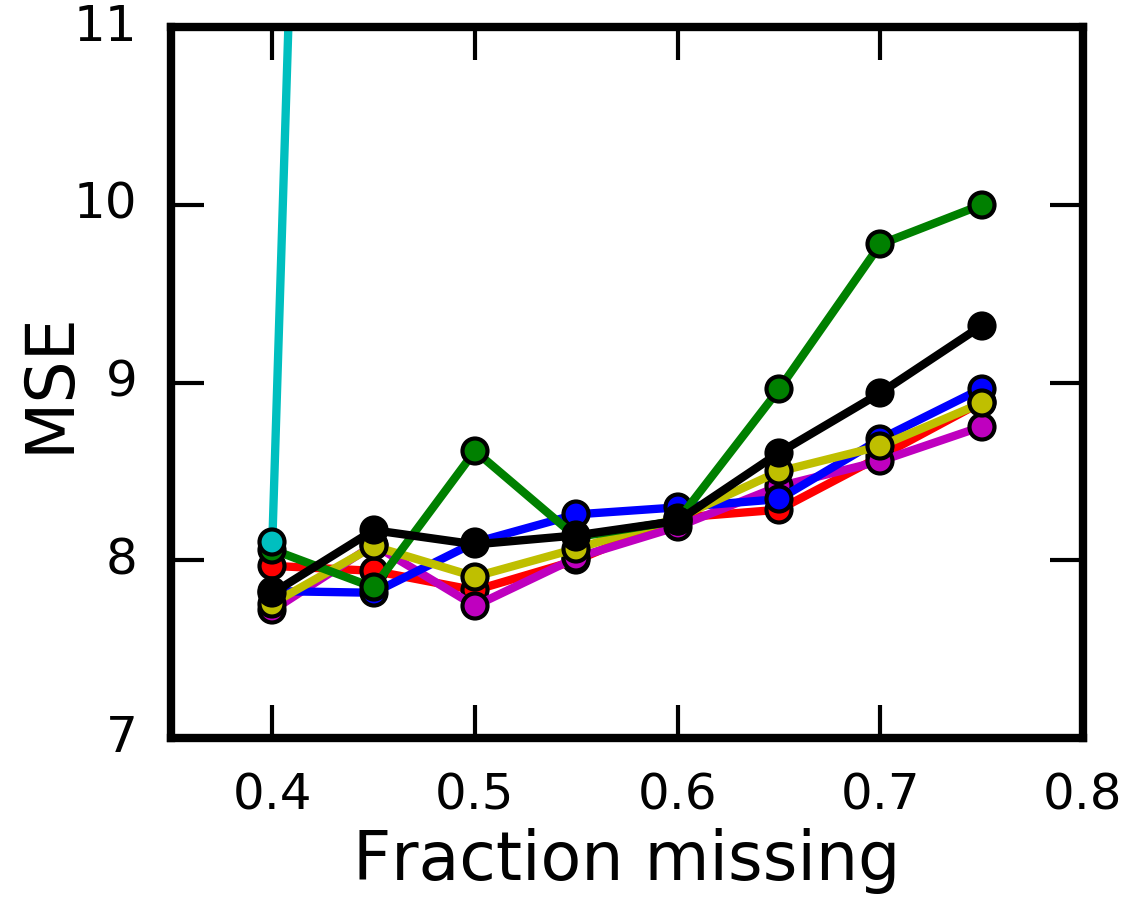
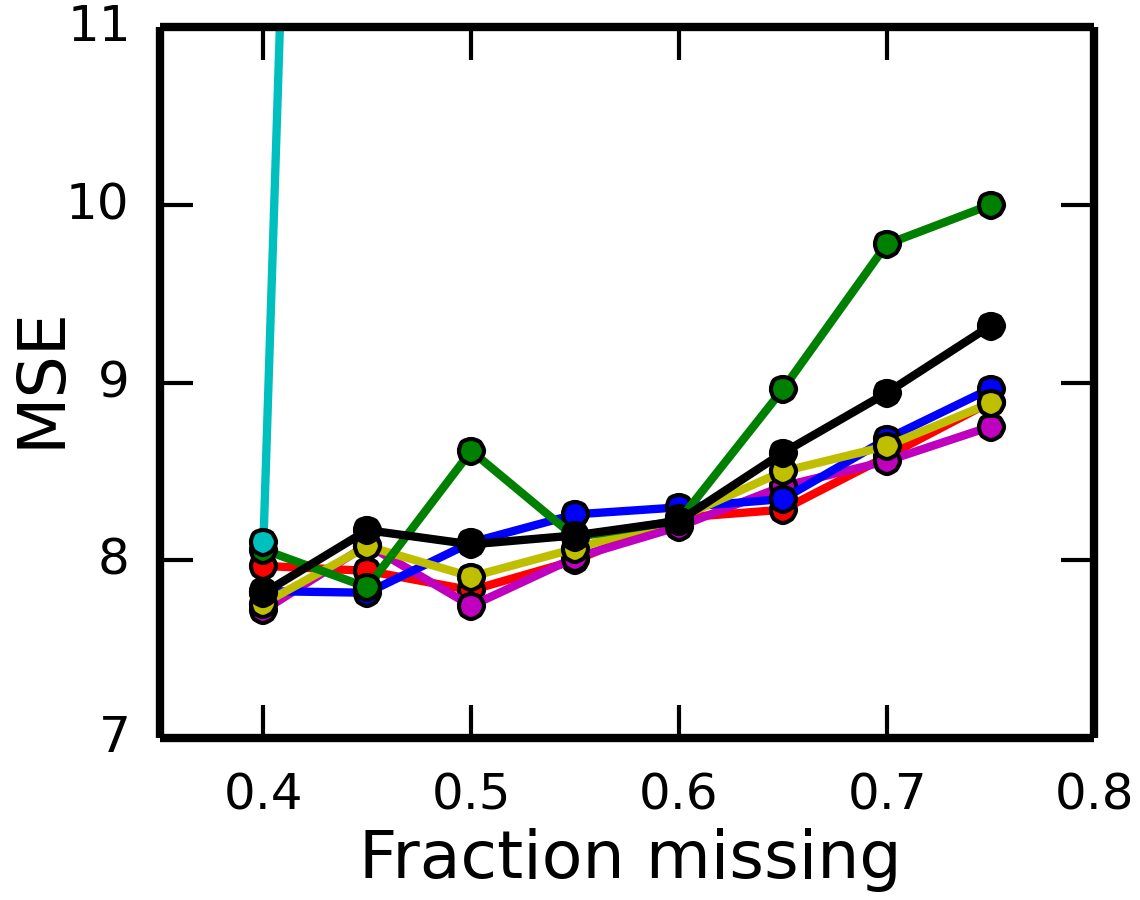
Redid all sparsity plots, made the x and y ticks better.@

diff --git a/experiments/experiments_ctrp/sparsity/plots/plot_nmtf_with_ard_sparsity.py b/experiments/experiments_ctrp/sparsity/plots/plot_nmtf_with_ard_sparsity.py
@@ -8,7 +8,7 @@ import numpy
 
 ''' Plot settings. '''
 metrics = ['MSE']#['MSE','R^2','Rp']
-MSE_min, MSE_max = 700, 1000
+MSE_min, MSE_max = 700, 1100
 fractions_unknown = [0.3, 0.4, 0.5, 0.6, 0.7, 0.8, 0.9]
 
 folder_plots = "./"
@@ -47,24 +47,20 @@ colours = ['r','m','b','y','g','k','c']
 
 for metric in metrics:
     fig = plt.figure(figsize=(1.9,1.5))
-    fig.subplots_adjust(left=0.20, right=0.95, bottom=0.18, top=0.97)
+    fig.subplots_adjust(left=0.20, right=0.96, bottom=0.18, top=0.97)
     #plt.title("Performances (%s) for different fractions of missing values" % metric)
     plt.xlabel("Fraction missing", fontsize=8, labelpad=1)
-    plt.ylabel(metric, fontsize=8, labelpad=-1)
-    if metric == 'MSE':
-        plt.yticks(range(0,MSE_max+1,2),fontsize=6)
-    else:
-        plt.yticks(fontsize=6)
-    plt.xticks(fontsize=6)
+    plt.ylabel(metric, fontsize=8, labelpad=0)
     
     for (method, all_perf, colour) in zip(methods,performances,colours):
         x, y = fractions_unknown, numpy.mean(all_perf[metric],axis=1)
         plt.plot(x,y,linestyle='-', marker='o', label=method, c=colour, markersize=3)
     
     plt.xlim(0.2, 1.)
+    plt.xticks(numpy.arange(0.2, 1.1, 0.2), fontsize=6)
     if metric == 'MSE':
         plt.ylim(MSE_min,MSE_max)
-        plt.yticks(range(MSE_min,MSE_max+1,100))
+        plt.yticks(range(MSE_min,MSE_max+1,100), fontsize=6)
     else:
         plt.ylim(0.5,1.05)
      

diff --git a/experiments/experiments_ctrp/sparsity/plots/plot_nmtf_sparsity.py b/experiments/experiments_ctrp/sparsity/plots/plot_nmtf_sparsity.py
@@ -8,7 +8,7 @@ import numpy
 
 ''' Plot settings. '''
 metrics = ['MSE']#['MSE','R^2','Rp']
-MSE_min, MSE_max = 600, 1200
+MSE_min, MSE_max = 700, 1100
 fractions_unknown = [0.3, 0.4, 0.5, 0.6, 0.7, 0.8, 0.9]
 
 folder_plots = "./"
@@ -35,24 +35,20 @@ colours = ['r','b','g','c']
 
 for metric in metrics:
     fig = plt.figure(figsize=(1.9,1.5))
-    fig.subplots_adjust(left=0.20, right=0.95, bottom=0.18, top=0.97)
+    fig.subplots_adjust(left=0.20, right=0.96, bottom=0.18, top=0.97)
     #plt.title("Performances (%s) for different fractions of missing values" % metric)
     plt.xlabel("Fraction missing", fontsize=8, labelpad=1)
-    plt.ylabel(metric, fontsize=8, labelpad=-1)
-    if metric == 'MSE':
-        plt.yticks(range(0,MSE_max+1,2),fontsize=6)
-    else:
-        plt.yticks(fontsize=6)
-    plt.xticks(fontsize=6)
+    plt.ylabel(metric, fontsize=8, labelpad=0)
     
     for (method, all_perf, colour) in zip(methods,performances,colours):
         x, y = fractions_unknown, numpy.mean(all_perf[metric],axis=1)
         plt.plot(x,y,linestyle='-', marker='o', label=method, c=colour, markersize=3)
     
     plt.xlim(0.2, 1.)
+    plt.xticks(numpy.arange(0.2, 1.1, 0.2), fontsize=6)
     if metric == 'MSE':
         plt.ylim(MSE_min,MSE_max)
-        plt.yticks(range(MSE_min,MSE_max+1,100))
+        plt.yticks(range(MSE_min,MSE_max+1,100), fontsize=6)
     else:
         plt.ylim(0.5,1.05)
      

diff --git a/experiments/experiments_ctrp/sparsity/plots/plot_nmf_sparsity.py b/experiments/experiments_ctrp/sparsity/plots/plot_nmf_sparsity.py
@@ -8,7 +8,7 @@ import numpy
 
 ''' Plot settings. '''
 metrics = ['MSE']#['MSE','R^2','Rp']
-MSE_min, MSE_max = 600, 1200
+MSE_min, MSE_max = 700, 1100
 fractions_unknown = [0.3, 0.4, 0.5, 0.6, 0.7, 0.8, 0.9]
 
 folder_plots = "./"
@@ -41,24 +41,20 @@ colours = ['r','b','g','c']
 
 for metric in metrics:
     fig = plt.figure(figsize=(1.9,1.5))
-    fig.subplots_adjust(left=0.20, right=0.95, bottom=0.18, top=0.97)
+    fig.subplots_adjust(left=0.20, right=0.96, bottom=0.18, top=0.97)
     #plt.title("Performances (%s) for different fractions of missing values" % metric)
     plt.xlabel("Fraction missing", fontsize=8, labelpad=1)
-    plt.ylabel(metric, fontsize=8, labelpad=-1)
-    if metric == 'MSE':
-        plt.yticks(range(0,MSE_max+1,2),fontsize=6)
-    else:
-        plt.yticks(fontsize=6)
-    plt.xticks(fontsize=6)
+    plt.ylabel(metric, fontsize=8, labelpad=0)
     
     for (method, all_perf, colour) in zip(methods,performances,colours):
         x, y = fractions_unknown, numpy.mean(all_perf[metric],axis=1)
         plt.plot(x,y,linestyle='-', marker='o', label=method, c=colour, markersize=3)
     
     plt.xlim(0.2,1.)
+    plt.xticks(numpy.arange(0.2, 1.1, 0.2), fontsize=6)
     if metric == 'MSE':
         plt.ylim(MSE_min,MSE_max)
-        plt.yticks(range(MSE_min,MSE_max+1,100))
+        plt.yticks(range(MSE_min,MSE_max+1,100), fontsize=6)
     else:
         plt.ylim(0.5,1.05)
      

diff --git a/experiments/experiments_gdsc/sparsity/plots/plot_nmf_with_ard_sparsity.py b/experiments/experiments_gdsc/sparsity/plots/plot_nmf_with_ard_sparsity.py
@@ -47,24 +47,20 @@ colours = ['r','m','b','y','g','k','c']
 
 for metric in metrics:
     fig = plt.figure(figsize=(1.9,1.5))
-    fig.subplots_adjust(left=0.19, right=0.95, bottom=0.18, top=0.97)
+    fig.subplots_adjust(left=0.20, right=0.96, bottom=0.18, top=0.97)
     #plt.title("Performances (%s) for different fractions of missing values" % metric)
     plt.xlabel("Fraction missing", fontsize=8, labelpad=1)
-    plt.ylabel(metric, fontsize=8, labelpad=-1)
-    if metric == 'MSE':
-        plt.yticks(range(0,MSE_max+1,2),fontsize=6)
-    else:
-        plt.yticks(fontsize=6)
-    plt.xticks(fontsize=6)
+    plt.ylabel(metric, fontsize=8, labelpad=0.5)
     
     for (method, all_perf, colour) in zip(methods,performances,colours):
         x, y = fractions_unknown, numpy.mean(all_perf[metric],axis=1)
         plt.plot(x,y,linestyle='-', marker='o', label=method, c=colour, markersize=3)
     
     plt.xlim(0.1, 1.0)
+    plt.xticks(numpy.arange(0.2, 1.1, 0.2), fontsize=6)
     if metric == 'MSE':
         plt.ylim(MSE_min,MSE_max)
-        plt.yticks(range(MSE_min,MSE_max+1,100))
+        plt.yticks(range(MSE_min,MSE_max+1,200), fontsize=6)
     else:
         plt.ylim(0.5,1.05)
      

diff --git a/experiments/experiments_gdsc/sparsity/plots/plot_nmtf_with_ard_sparsity.py b/experiments/experiments_gdsc/sparsity/plots/plot_nmtf_with_ard_sparsity.py
@@ -47,24 +47,20 @@ colours = ['r','m','b','y','g','k','c']
 
 for metric in metrics:
     fig = plt.figure(figsize=(1.9,1.5))
-    fig.subplots_adjust(left=0.19, right=0.95, bottom=0.18, top=0.97)
+    fig.subplots_adjust(left=0.20, right=0.96, bottom=0.18, top=0.97)
     #plt.title("Performances (%s) for different fractions of missing values" % metric)
     plt.xlabel("Fraction missing", fontsize=8, labelpad=1)
-    plt.ylabel(metric, fontsize=8, labelpad=-1)
-    if metric == 'MSE':
-        plt.yticks(range(0,MSE_max+1,2),fontsize=6)
-    else:
-        plt.yticks(fontsize=6)
-    plt.xticks(fontsize=6)
+    plt.ylabel(metric, fontsize=8, labelpad=0.5)
     
     for (method, all_perf, colour) in zip(methods,performances,colours):
         x, y = fractions_unknown, numpy.mean(all_perf[metric],axis=1)
         plt.plot(x,y,linestyle='-', marker='o', label=method, c=colour, markersize=3)
     
     plt.xlim(0.1, 1.0)
+    plt.xticks(numpy.arange(0.2, 1.1, 0.2), fontsize=6)
     if metric == 'MSE':
         plt.ylim(MSE_min,MSE_max)
-        plt.yticks(range(MSE_min,MSE_max+1,100))
+        plt.yticks(range(MSE_min,MSE_max+1,200), fontsize=6)
     else:
         plt.ylim(0.5,1.05)
      

diff --git a/experiments/experiments_ctrp/sparsity/plots/plot_nmf_with_ard_sparsity.py b/experiments/experiments_ctrp/sparsity/plots/plot_nmf_with_ard_sparsity.py
@@ -47,24 +47,20 @@ colours = ['r','m','b','y','g','k','c']
 
 for metric in metrics:
     fig = plt.figure(figsize=(1.9,1.5))
-    fig.subplots_adjust(left=0.20, right=0.95, bottom=0.18, top=0.97)
+    fig.subplots_adjust(left=0.20, right=0.96, bottom=0.18, top=0.97)
     #plt.title("Performances (%s) for different fractions of missing values" % metric)
     plt.xlabel("Fraction missing", fontsize=8, labelpad=1)
-    plt.ylabel(metric, fontsize=8, labelpad=-1)
-    if metric == 'MSE':
-        plt.yticks(range(0,MSE_max+1,2),fontsize=6)
-    else:
-        plt.yticks(fontsize=6)
-    plt.xticks(fontsize=6)
+    plt.ylabel(metric, fontsize=8, labelpad=0)
     
     for (method, all_perf, colour) in zip(methods,performances,colours):
         x, y = fractions_unknown, numpy.mean(all_perf[metric],axis=1)
         plt.plot(x,y,linestyle='-', marker='o', label=method, c=colour, markersize=3)
     
     plt.xlim(0.2, 1.)
+    plt.xticks(numpy.arange(0.2, 1.1, 0.2), fontsize=6)
     if metric == 'MSE':
         plt.ylim(MSE_min,MSE_max)
-        plt.yticks(range(MSE_min,MSE_max+1,100))
+        plt.yticks(range(MSE_min,MSE_max+1,100), fontsize=6)
     else:
         plt.ylim(0.5,1.05)
      

diff --git a/experiments/experiments_gdsc/sparsity/plots/plot_nmf_sparsity.py b/experiments/experiments_gdsc/sparsity/plots/plot_nmf_sparsity.py
@@ -35,24 +35,20 @@ colours = ['r','b','g','c']
 
 for metric in metrics:
     fig = plt.figure(figsize=(1.9,1.5))
-    fig.subplots_adjust(left=0.19, right=0.95, bottom=0.18, top=0.97)
+    fig.subplots_adjust(left=0.20, right=0.96, bottom=0.18, top=0.97)
     #plt.title("Performances (%s) for different fractions of missing values" % metric)
     plt.xlabel("Fraction missing", fontsize=8, labelpad=1)
-    plt.ylabel(metric, fontsize=8, labelpad=-1)
-    if metric == 'MSE':
-        plt.yticks(range(0,MSE_max+1,2),fontsize=6)
-    else:
-        plt.yticks(fontsize=6)
-    plt.xticks(fontsize=6)
+    plt.ylabel(metric, fontsize=8, labelpad=0.5)
     
     for (method, all_perf, colour) in zip(methods,performances,colours):
         x, y = fractions_unknown, numpy.mean(all_perf[metric],axis=1)
         plt.plot(x,y,linestyle='-', marker='o', label=method, c=colour, markersize=3)
     
     plt.xlim(0.1, 1.0)
+    plt.xticks(numpy.arange(0.2, 1.1, 0.2), fontsize=6)
     if metric == 'MSE':
         plt.ylim(MSE_min,MSE_max)
-        plt.yticks(range(MSE_min,MSE_max+1,100))
+        plt.yticks(range(MSE_min,MSE_max+1,200), fontsize=6)
     else:
         plt.ylim(0.5,1.05)
      

diff --git a/experiments/experiments_gdsc/sparsity/plots/plot_nmtf_sparsity.py b/experiments/experiments_gdsc/sparsity/plots/plot_nmtf_sparsity.py
@@ -35,24 +35,20 @@ colours = ['r','b','g','c']
 
 for metric in metrics:
     fig = plt.figure(figsize=(1.9,1.5))
-    fig.subplots_adjust(left=0.19, right=0.95, bottom=0.18, top=0.97)
+    fig.subplots_adjust(left=0.20, right=0.96, bottom=0.18, top=0.97)
     #plt.title("Performances (%s) for different fractions of missing values" % metric)
     plt.xlabel("Fraction missing", fontsize=8, labelpad=1)
-    plt.ylabel(metric, fontsize=8, labelpad=-1)
-    if metric == 'MSE':
-        plt.yticks(range(0,MSE_max+1,2),fontsize=6)
-    else:
-        plt.yticks(fontsize=6)
-    plt.xticks(fontsize=6)
+    plt.ylabel(metric, fontsize=8, labelpad=0.5)
     
     for (method, all_perf, colour) in zip(methods,performances,colours):
         x, y = fractions_unknown, numpy.mean(all_perf[metric],axis=1)
         plt.plot(x,y,linestyle='-', marker='o', label=method, c=colour, markersize=3)
     
     plt.xlim(0.1, 1.0)
+    plt.xticks(numpy.arange(0.2, 1.1, 0.2), fontsize=6)
     if metric == 'MSE':
         plt.ylim(MSE_min,MSE_max)
-        plt.yticks(range(MSE_min,MSE_max+1,100))
+        plt.yticks(range(MSE_min,MSE_max+1,200), fontsize=6)
     else:
         plt.ylim(0.5,1.05)
      

diff --git a/experiments/experiments_ccle_ec/sparsity/plots/plot_nmf_with_ard_sparsity.py b/experiments/experiments_ccle_ec/sparsity/plots/plot_nmf_with_ard_sparsity.py
@@ -48,24 +48,20 @@ colours = ['r','m','b','y','g','k','c']
 
 for metric in metrics:
     fig = plt.figure(figsize=(1.9,1.5))
-    fig.subplots_adjust(left=0.15, right=0.95, bottom=0.18, top=0.97)
+    fig.subplots_adjust(left=0.14, right=0.96, bottom=0.18, top=0.97)
     #plt.title("Performances (%s) for different fractions of missing values" % metric)
     plt.xlabel("Fraction missing", fontsize=8, labelpad=1)
     plt.ylabel(metric, fontsize=8, labelpad=-1)
-    if metric == 'MSE':
-        plt.yticks(range(0,MSE_max+1,2),fontsize=6)
-    else:
-        plt.yticks(fontsize=6)
-    plt.xticks(fontsize=6)
     
     for (method, all_perf, colour) in zip(methods,performances,colours):
         x, y = fractions_unknown, numpy.mean(all_perf[metric],axis=1)
         plt.plot(x,y,linestyle='-', marker='o', label=method, c=colour, markersize=3)
     
     plt.xlim(xmin, xmax)
+    plt.xticks(numpy.arange(0.4, 0.85, 0.1), fontsize=6)
     if metric == 'MSE':
         plt.ylim(MSE_min,MSE_max)
-        plt.yticks(range(MSE_min,MSE_max+1,1))
+        plt.yticks(range(MSE_min,MSE_max+1,1), fontsize=6)
     else:
         plt.ylim(0.5,1.05)
      

diff --git a/experiments/experiments_ccle_ec/sparsity/plots/plot_nmtf_with_ard_sparsity.py b/experiments/experiments_ccle_ec/sparsity/plots/plot_nmtf_with_ard_sparsity.py
@@ -48,24 +48,20 @@ colours = ['r','m','b','y','g','k','c']
 
 for metric in metrics:
     fig = plt.figure(figsize=(1.9,1.5))
-    fig.subplots_adjust(left=0.15, right=0.95, bottom=0.18, top=0.97)
+    fig.subplots_adjust(left=0.14, right=0.96, bottom=0.18, top=0.97)
     #plt.title("Performances (%s) for different fractions of missing values" % metric)
     plt.xlabel("Fraction missing", fontsize=8, labelpad=1)
     plt.ylabel(metric, fontsize=8, labelpad=-1)
-    if metric == 'MSE':
-        plt.yticks(range(0,MSE_max+1,2),fontsize=6)
-    else:
-        plt.yticks(fontsize=6)
-    plt.xticks(fontsize=6)
     
     for (method, all_perf, colour) in zip(methods,performances,colours):
         x, y = fractions_unknown, numpy.mean(all_perf[metric],axis=1)
         plt.plot(x,y,linestyle='-', marker='o', label=method, c=colour, markersize=3)
     
     plt.xlim(xmin, xmax)
+    plt.xticks(numpy.arange(0.4, 0.85, 0.1), fontsize=6)
     if metric == 'MSE':
         plt.ylim(MSE_min,MSE_max)
-        plt.yticks(range(MSE_min,MSE_max+1,1))
+        plt.yticks(range(MSE_min,MSE_max+1,1), fontsize=6)
     else:
         plt.ylim(0.5,1.05)
      

diff --git a/experiments/experiments_ccle_ic/sparsity/plots/plot_nmf_with_ard_sparsity.py b/experiments/experiments_ccle_ic/sparsity/plots/plot_nmf_with_ard_sparsity.py
@@ -47,24 +47,20 @@ colours = ['r','m','b','y','g','k','c']
 
 for metric in metrics:
     fig = plt.figure(figsize=(1.9,1.5))
-    fig.subplots_adjust(left=0.15, right=0.95, bottom=0.18, top=0.97)
+    fig.subplots_adjust(left=0.14, right=0.96, bottom=0.18, top=0.97)
     #plt.title("Performances (%s) for different fractions of missing values" % metric)
     plt.xlabel("Fraction missing", fontsize=8, labelpad=1)
     plt.ylabel(metric, fontsize=8, labelpad=-1)
-    if metric == 'MSE':
-        plt.yticks(range(0,MSE_max+1,2),fontsize=6)
-    else:
-        plt.yticks(fontsize=6)
-    plt.xticks(fontsize=6)
     
     for (method, all_perf, colour) in zip(methods,performances,colours):
         x, y = fractions_unknown, numpy.mean(all_perf[metric],axis=1)
         plt.plot(x,y,linestyle='-', marker='o', label=method, c=colour, markersize=3)
     
     plt.xlim(0.1,1.)
+    plt.xticks(numpy.arange(0.2, 1.1, 0.2), fontsize=6)
     if metric == 'MSE':
         plt.ylim(MSE_min,MSE_max)
-        plt.yticks(range(MSE_min,MSE_max+1,2))
+        plt.yticks(range(MSE_min,MSE_max+1,2), fontsize=6)
     else:
         plt.ylim(0.5,1.05)
      

diff --git a/experiments/experiments_ccle_ic/sparsity/plots/plot_nmtf_with_ard_sparsity.py b/experiments/experiments_ccle_ic/sparsity/plots/plot_nmtf_with_ard_sparsity.py
@@ -47,24 +47,20 @@ colours = ['r','m','b','y','g','k','c']
 
 for metric in metrics:
     fig = plt.figure(figsize=(1.9,1.5))
-    fig.subplots_adjust(left=0.15, right=0.95, bottom=0.18, top=0.97)
+    fig.subplots_adjust(left=0.14, right=0.96, bottom=0.18, top=0.97)
     #plt.title("Performances (%s) for different fractions of missing values" % metric)
     plt.xlabel("Fraction missing", fontsize=8, labelpad=1)
     plt.ylabel(metric, fontsize=8, labelpad=-1)
-    if metric == 'MSE':
-        plt.yticks(range(0,MSE_max+1,2),fontsize=6)
-    else:
-        plt.yticks(fontsize=6)
-    plt.xticks(fontsize=6)
     
     for (method, all_perf, colour) in zip(methods,performances,colours):
         x, y = fractions_unknown, numpy.mean(all_perf[metric],axis=1)
         plt.plot(x,y,linestyle='-', marker='o', label=method, c=colour, markersize=3)
     
     plt.xlim(0.1,1.)
+    plt.xticks(numpy.arange(0.2, 1.1, 0.2), fontsize=6)
     if metric == 'MSE':
         plt.ylim(MSE_min,MSE_max)
-        plt.yticks(range(MSE_min,MSE_max+1,2))
+        plt.yticks(range(MSE_min,MSE_max+1,2), fontsize=6)
     else:
         plt.ylim(0.5,1.05)
      
